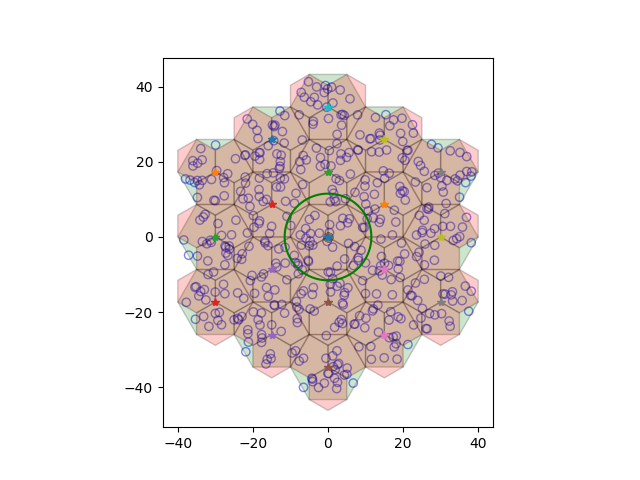
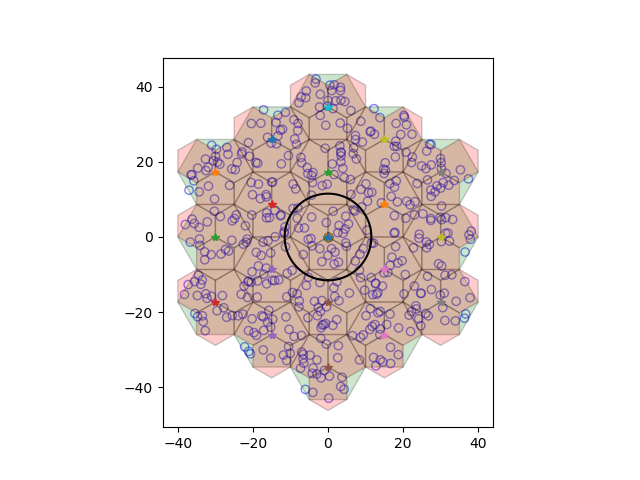
13 de enero

Changed region(s): [[0.2812, 0.1562, 0.75, 0.8438]]

diff --git a/prototipo_v2_clases/pk_red_dispositivos/celda.py b/prototipo_v2_clases/pk_red_dispositivos/celda.py
@@ -1,4 +1,8 @@
-#import
+import matplotlib.pyplot as plt
+from matplotlib.patches import RegularPolygon
+import numpy as np
+import math
+#
 import modulo_coordenadas as mc
 
 class Celda:
@@ -8,6 +12,12 @@ class Celda:
 		self.pos_x=pos_x
 		self.pos_y=pos_y
 		self.radio=radio
+		self.sector_x1=0
+		self.sector_x2=0
+		self.sector_x3=0
+		self.sector_y1=0
+		self.sector_y2=0
+		self.sector_y3=0
 		self.usuarios=[]
 
 	def distancia_celda_usuario(params):
@@ -31,10 +41,39 @@ class Celdas:
 			self.obj=Celda(self.x, self.y, self.radio)
 			self.celdas.append(self.obj)
 
-	def crear_coordenadas():
-		pass
 
-	
+	def dibujar_celdas(self):
+		'''Funcion principal que dibuja las celdas dadas las coordenadas x,y de su centro.'''
+		color="green"
+		fig, ax = plt.subplots(1)
+		ax.set_aspect('equal') 
+
+		for x,y in zip(self.x, self.y):
+			#pinta triangulos en los origenes de las estaciones base
+			plt.plot(x,y, 'b^')
+			
+			malla_hexagonal = RegularPolygon((x, y), numVertices=6, radius=self.radio,
+							orientation=np.radians(30), #con 60 grados funciona perfecto, pero las coordenadas cambian. Antes 30
+							facecolor=color, alpha=0.2, edgecolor='k')
+							#cambiar radius=2. / 3. , cuando se usa coord_0
+			ax.add_patch(malla_hexagonal) #si no no dibuja celdas
+			ax.scatter(0, 0, alpha=0.1)
+		
+
+		return ax
+
+	def tri_sectorizar(angulo_x,angulo_y, radio_ext, ax, cartesian_x, cartesian_y):
+		#ax = plt.subplots(1)
+		apotema_trisec= radio_ext/2 #relaciono el apotema tri con el radio celda grande
+		radio_trisec =2*apotema_trisec* math.sqrt((4/3)) #radio a partir del apotema
+		radio_circular=radio_trisec #paso extra, no necesario
+		colores=["Red","Red","Red"]
+		for cartx,carty in zip(cartesian_x, cartesian_y):
+			for x,y in zip(angulo_x, angulo_y):
+				color = colores[0].lower()
+				hexagonal_trisec = RegularPolygon((0.5*radio_ext*x+cartx, 0.5*radio_ext*y+carty), numVertices=6, radius=radio_ext*0.5*1,
+								orientation=np.radians(60), facecolor=color, alpha=0.2, edgecolor='k')
+				ax.add_patch(hexagonal_trisec)	
 
 
 def crear_n_objetos_lista(clase_madre, n):
@@ -57,7 +96,10 @@ def prueba1():
 	#genera error por que 0 no es una cantidad aceptable de celdas.
 def prueba2():
 	#crea una colmena con 4 macroceldas.
-	colmena=Celdas(4,10)
+	colmena=Celdas(19,10)
+	ax=colmena.dibujar_celdas()
+	#plt.savefig("dibujar19.png") #para guardar en base de datos, llamar en un nivel de archivo superior y guardar.
+	#plt.show()
 if __name__=="__main__":
 	#Prototipo:
 	print("------------")

diff --git a/prototipo/pkg1_durbatuluk.py b/prototipo/pkg1_durbatuluk.py
@@ -36,7 +36,7 @@ def gestionar_celdas(nivel, radio_ext,intensity):
 	#radio_circular=radio_ext+test_radio
 	radio_circular=radio_trisec
 	cir_x,cir_y,angulo_x,angulo_y=prot_funciones_especiales.prot_circulo_angulo.coordenadas_circulo(radio_circular,azimuts)
-	plt.plot(cir_x,cir_y, 'g') #np variables, contienen una circunferencia
+	plt.plot(cir_x,cir_y, 'k') #np variables, contienen una circunferencia
 	pkg1.mod_celda.tri_sectorizar(angulo_x,angulo_y,radio_circular, ax, cartx,carty)
 	'''fin trisectorizar'''
 	#Poisson tambien debe hacerse en prot_celda
